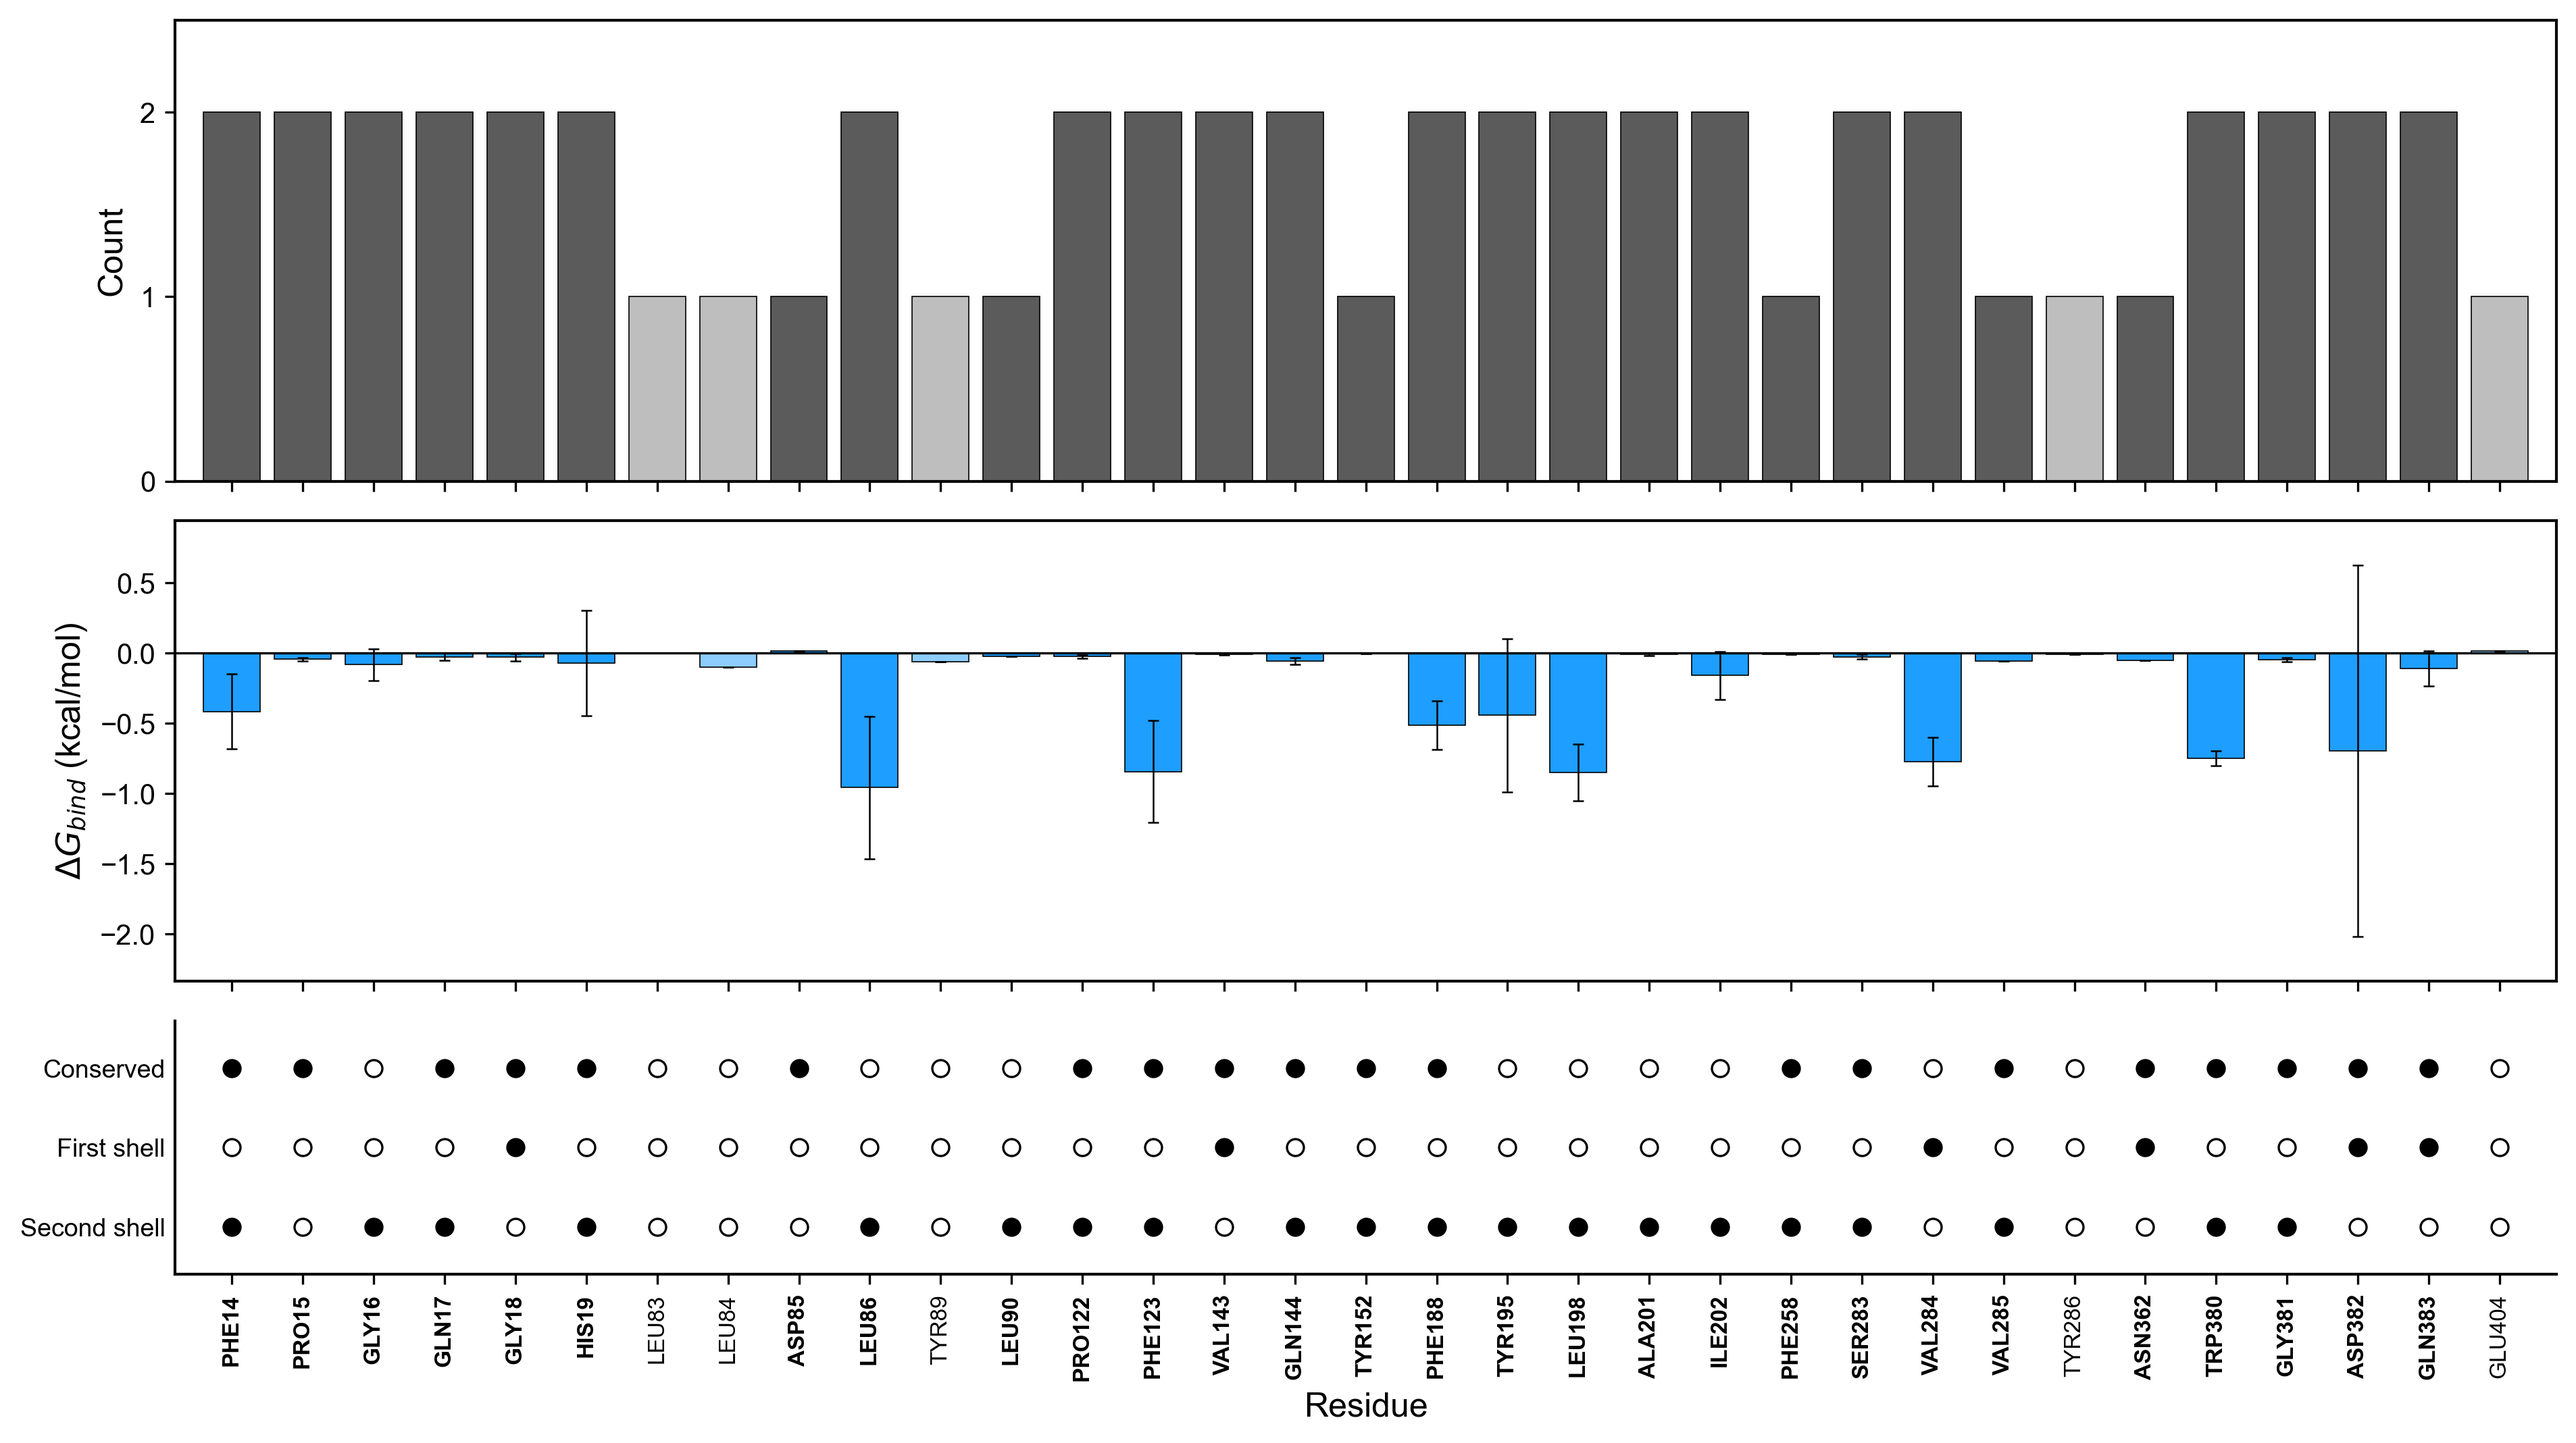
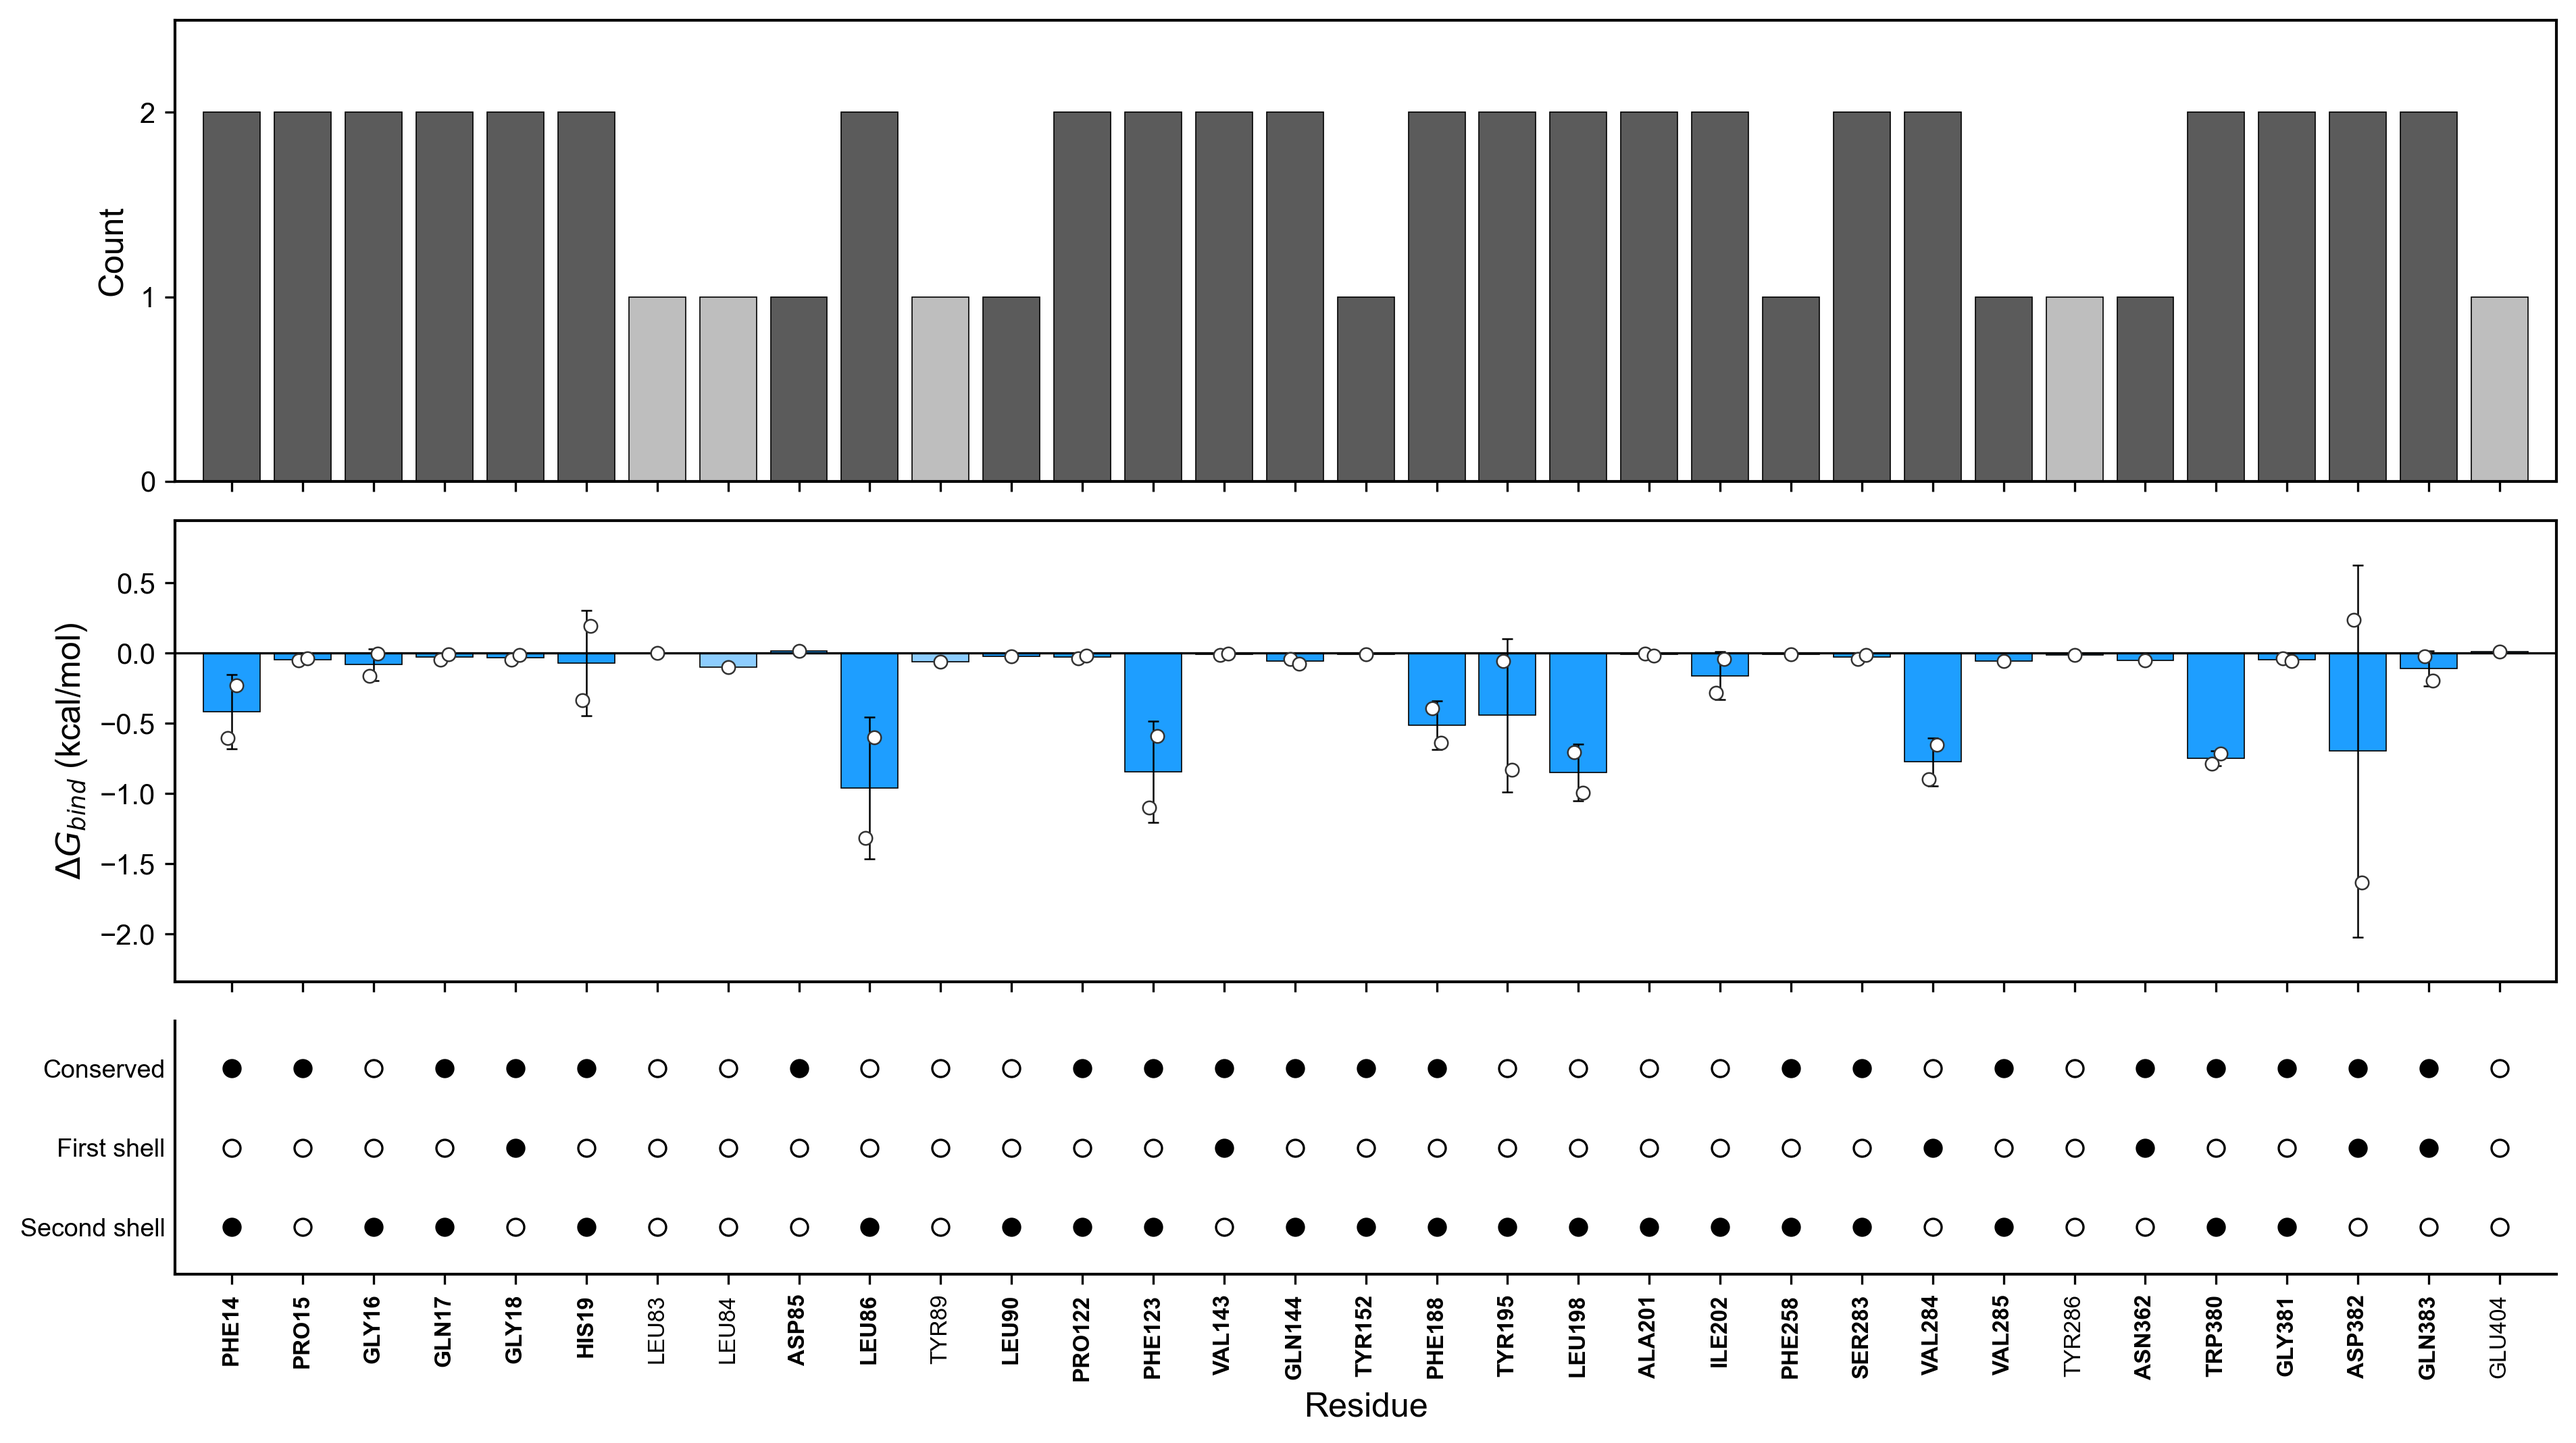
Add raw points to SX6 SX7 MMPBSA charts

diff --git a/code/make_UGT84A56_figures.py b/code/make_UGT84A56_figures.py
@@ -1562,6 +1562,16 @@ ax_bottom = fig.add_subplot(gs[1, 0], sharex=ax_top)
 ax_annot = fig.add_subplot(gs[2, 0], sharex=ax_top)
 
 x = np.arange(len(plot_df))
+raw_point_df = system_residue_avg_df.loc[
+    system_residue_avg_df["project_residue_id"].isin(plot_df["project_residue_id"])
+].copy()
+raw_point_df["x_base"] = raw_point_df["project_residue_id"].map(
+    dict(zip(plot_df["project_residue_id"], x))
+)
+raw_point_df["point_index"] = raw_point_df.groupby("project_residue_id").cumcount()
+raw_point_df["point_count"] = raw_point_df.groupby("project_residue_id")["project_residue_id"].transform("count")
+raw_point_df["x_plot"] = raw_point_df["x_base"] + (raw_point_df["point_index"] - (raw_point_df["point_count"] - 1) / 2) * 0.12
+
 highlight_mask = plot_df["highlight"].values
 count_colors = np.where(highlight_mask, "#5B5B5B", "#BEBEBE")
 avg_colors = np.where(highlight_mask, "#1E9EFF", "#8DCDFE")
@@ -1575,6 +1585,15 @@ ax_bottom.bar(
     edgecolor="black",
     linewidth=0.4,
     error_kw={"ecolor": "black", "elinewidth": 0.6, "capsize": 2, "capthick": 0.6},
+)
+ax_bottom.scatter(
+    raw_point_df["x_plot"],
+    raw_point_df["avg_dataset_value"],
+    s=22,
+    facecolors="white",
+    edgecolors="#333333",
+    linewidths=0.6,
+    zorder=4,
 )
 
 ax_top.set_ylabel("Count", fontsize=LABEL_SIZE)

diff --git a/code/make_togt_figures.py b/code/make_togt_figures.py
@@ -1560,6 +1560,16 @@ ax_bottom = fig.add_subplot(gs[1, 0], sharex=ax_top)
 ax_annot = fig.add_subplot(gs[2, 0], sharex=ax_top)
 
 x = np.arange(len(plot_df))
+raw_point_df = system_residue_avg_df.loc[
+    system_residue_avg_df["project_residue_id"].isin(plot_df["project_residue_id"])
+].copy()
+raw_point_df["x_base"] = raw_point_df["project_residue_id"].map(
+    dict(zip(plot_df["project_residue_id"], x))
+)
+raw_point_df["point_index"] = raw_point_df.groupby("project_residue_id").cumcount()
+raw_point_df["point_count"] = raw_point_df.groupby("project_residue_id")["project_residue_id"].transform("count")
+raw_point_df["x_plot"] = raw_point_df["x_base"] + (raw_point_df["point_index"] - (raw_point_df["point_count"] - 1) / 2) * 0.12
+
 highlight_mask = plot_df["highlight"].values
 count_colors = np.where(highlight_mask, "#5B5B5B", "#BEBEBE")
 avg_colors = np.where(highlight_mask, "#B23636", "#E6A0A0")
@@ -1573,6 +1583,15 @@ ax_bottom.bar(
     edgecolor="black",
     linewidth=0.4,
     error_kw={"ecolor": "black", "elinewidth": 0.6, "capsize": 2, "capthick": 0.6},
+)
+ax_bottom.scatter(
+    raw_point_df["x_plot"],
+    raw_point_df["avg_dataset_value"],
+    s=22,
+    facecolors="white",
+    edgecolors="#333333",
+    linewidths=0.6,
+    zorder=4,
 )
 
 ax_top.set_ylabel("Count", fontsize=LABEL_SIZE)
